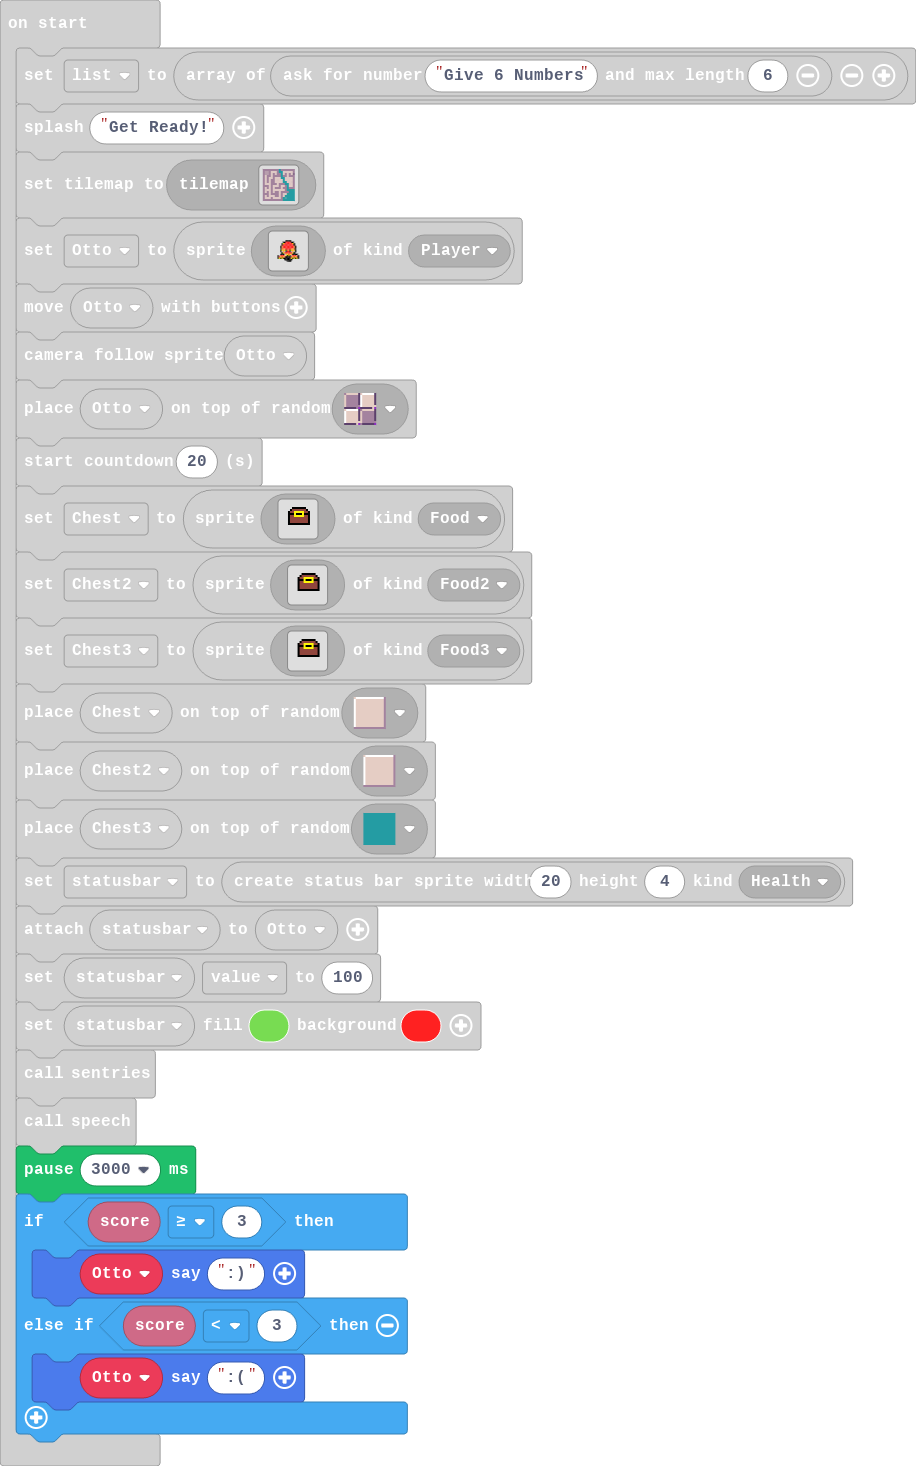
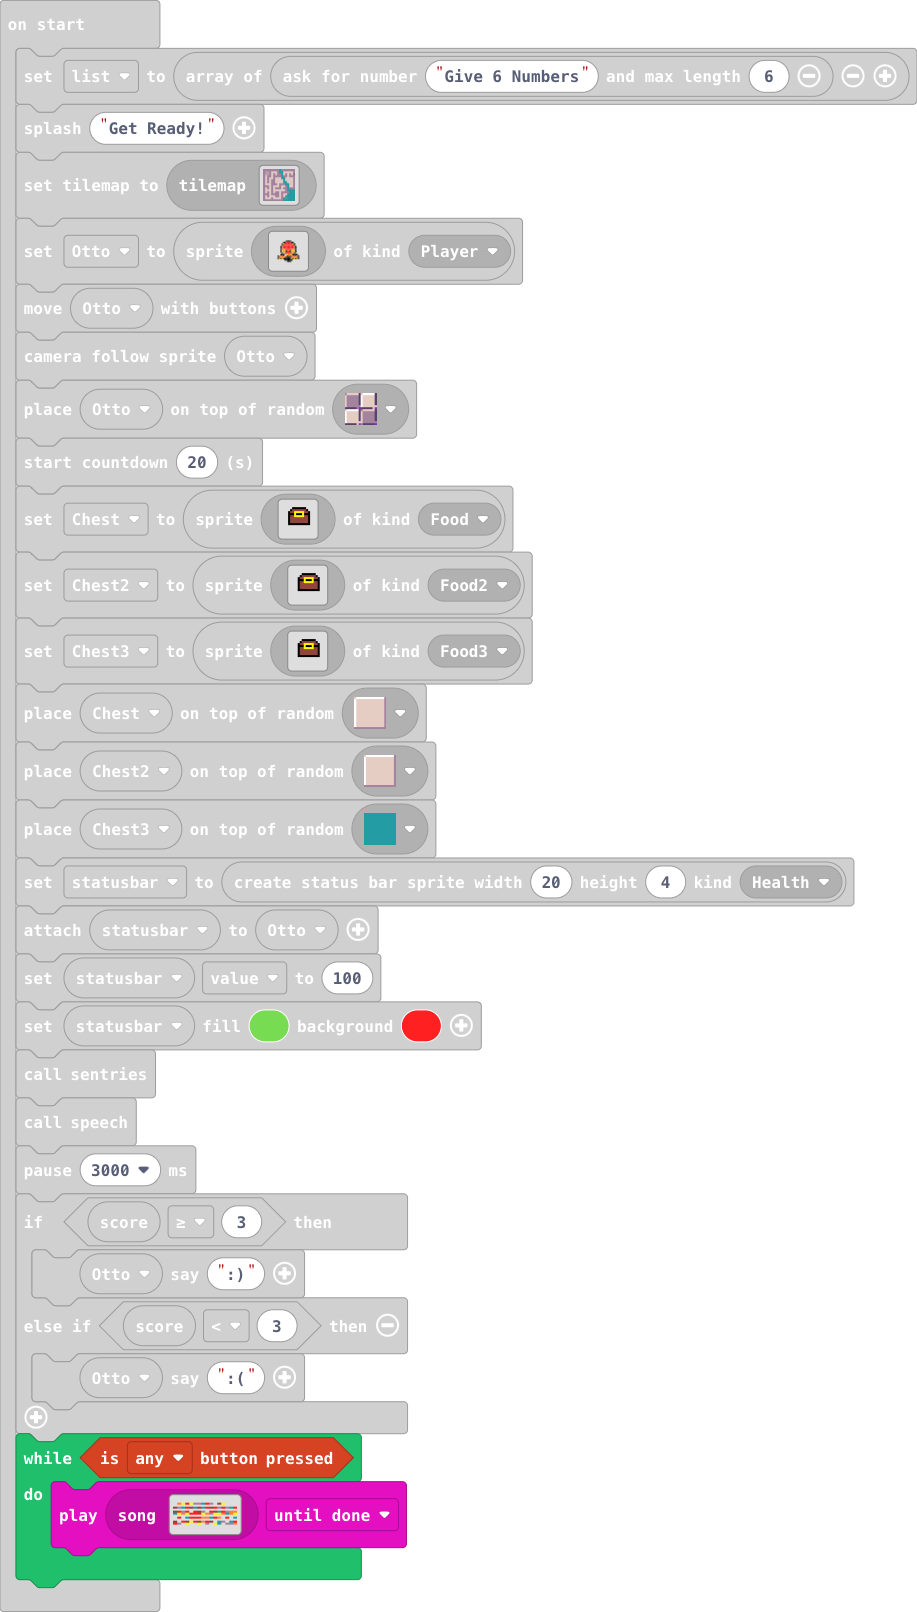
Update main.blocks, main.ts

Changed region(s): [[0.0, 0.0, 1.0, 1.0]]

diff --git a/main.ts b/main.ts
@@ -160,3 +160,6 @@ if (info.score() >= 3) {
 } else if (info.score() < 3) {
     Otto.sayText(":(")
 }
+while (controller.anyButton.isPressed()) {
[1 lines of base64/hex data omitted]
+}
